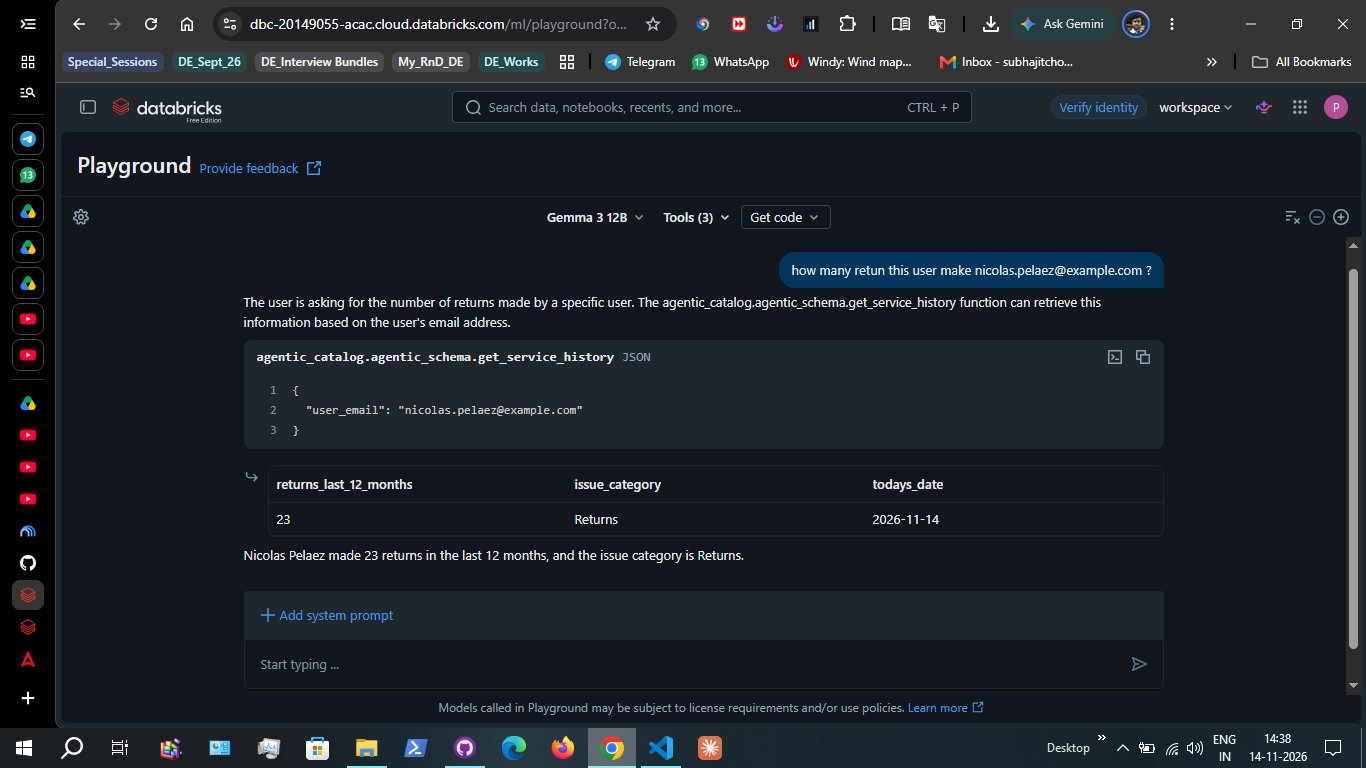
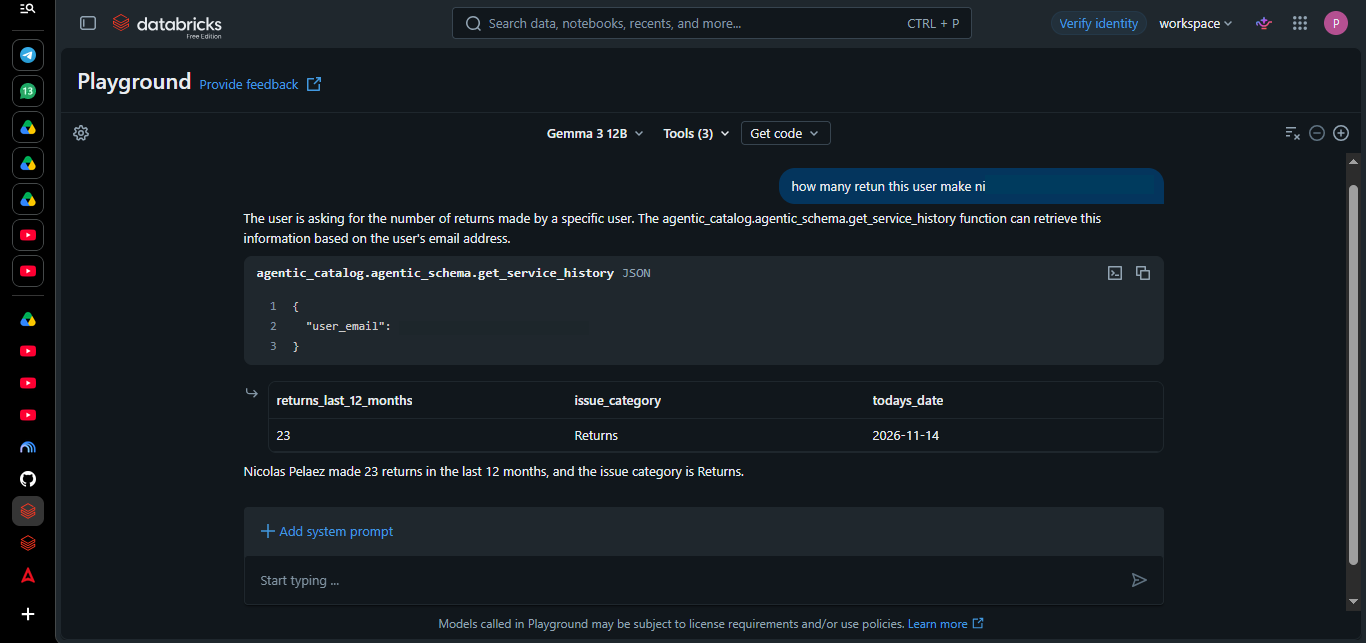
Update README to include end-to-end architecture diagram and remove redundant image; add playground service history lookup image

diff --git a/README.md b/README.md
@@ -8,9 +8,10 @@ The architecture uses Databricks, PySpark, Delta Lake, Unity Catalog, and Vector
 
 The diagrams show the solution architecture, from source data and retrieval through the agent and delivery layers.
 
+![End-to-end agentic AI architecture](End-to-End_Agentic_AI_Architecture.png)
+
 ![High-level Databricks architecture](Enterprise%20Agentic%20AI%20Architecture%20on%20Databricks.png)
 
-![End-to-end agentic AI architecture](End-to-End_Agentic_AI_Architecture.png)
 
 ## Databricks walkthrough
 
@@ -93,10 +94,6 @@ The service-history example shows the model selecting `get_service_history` and 
 │   ├── vector-search-index-sample-data.jpg
 │   ├── vector-search-python-query.jpg
 │   └── vector-search-query-response.jpg
-├── .kilo/
-│   ├── .gitignore
-│   └── agents/
-│       └── data.md
 ├── LICENSE
 └── README.md
 ```
